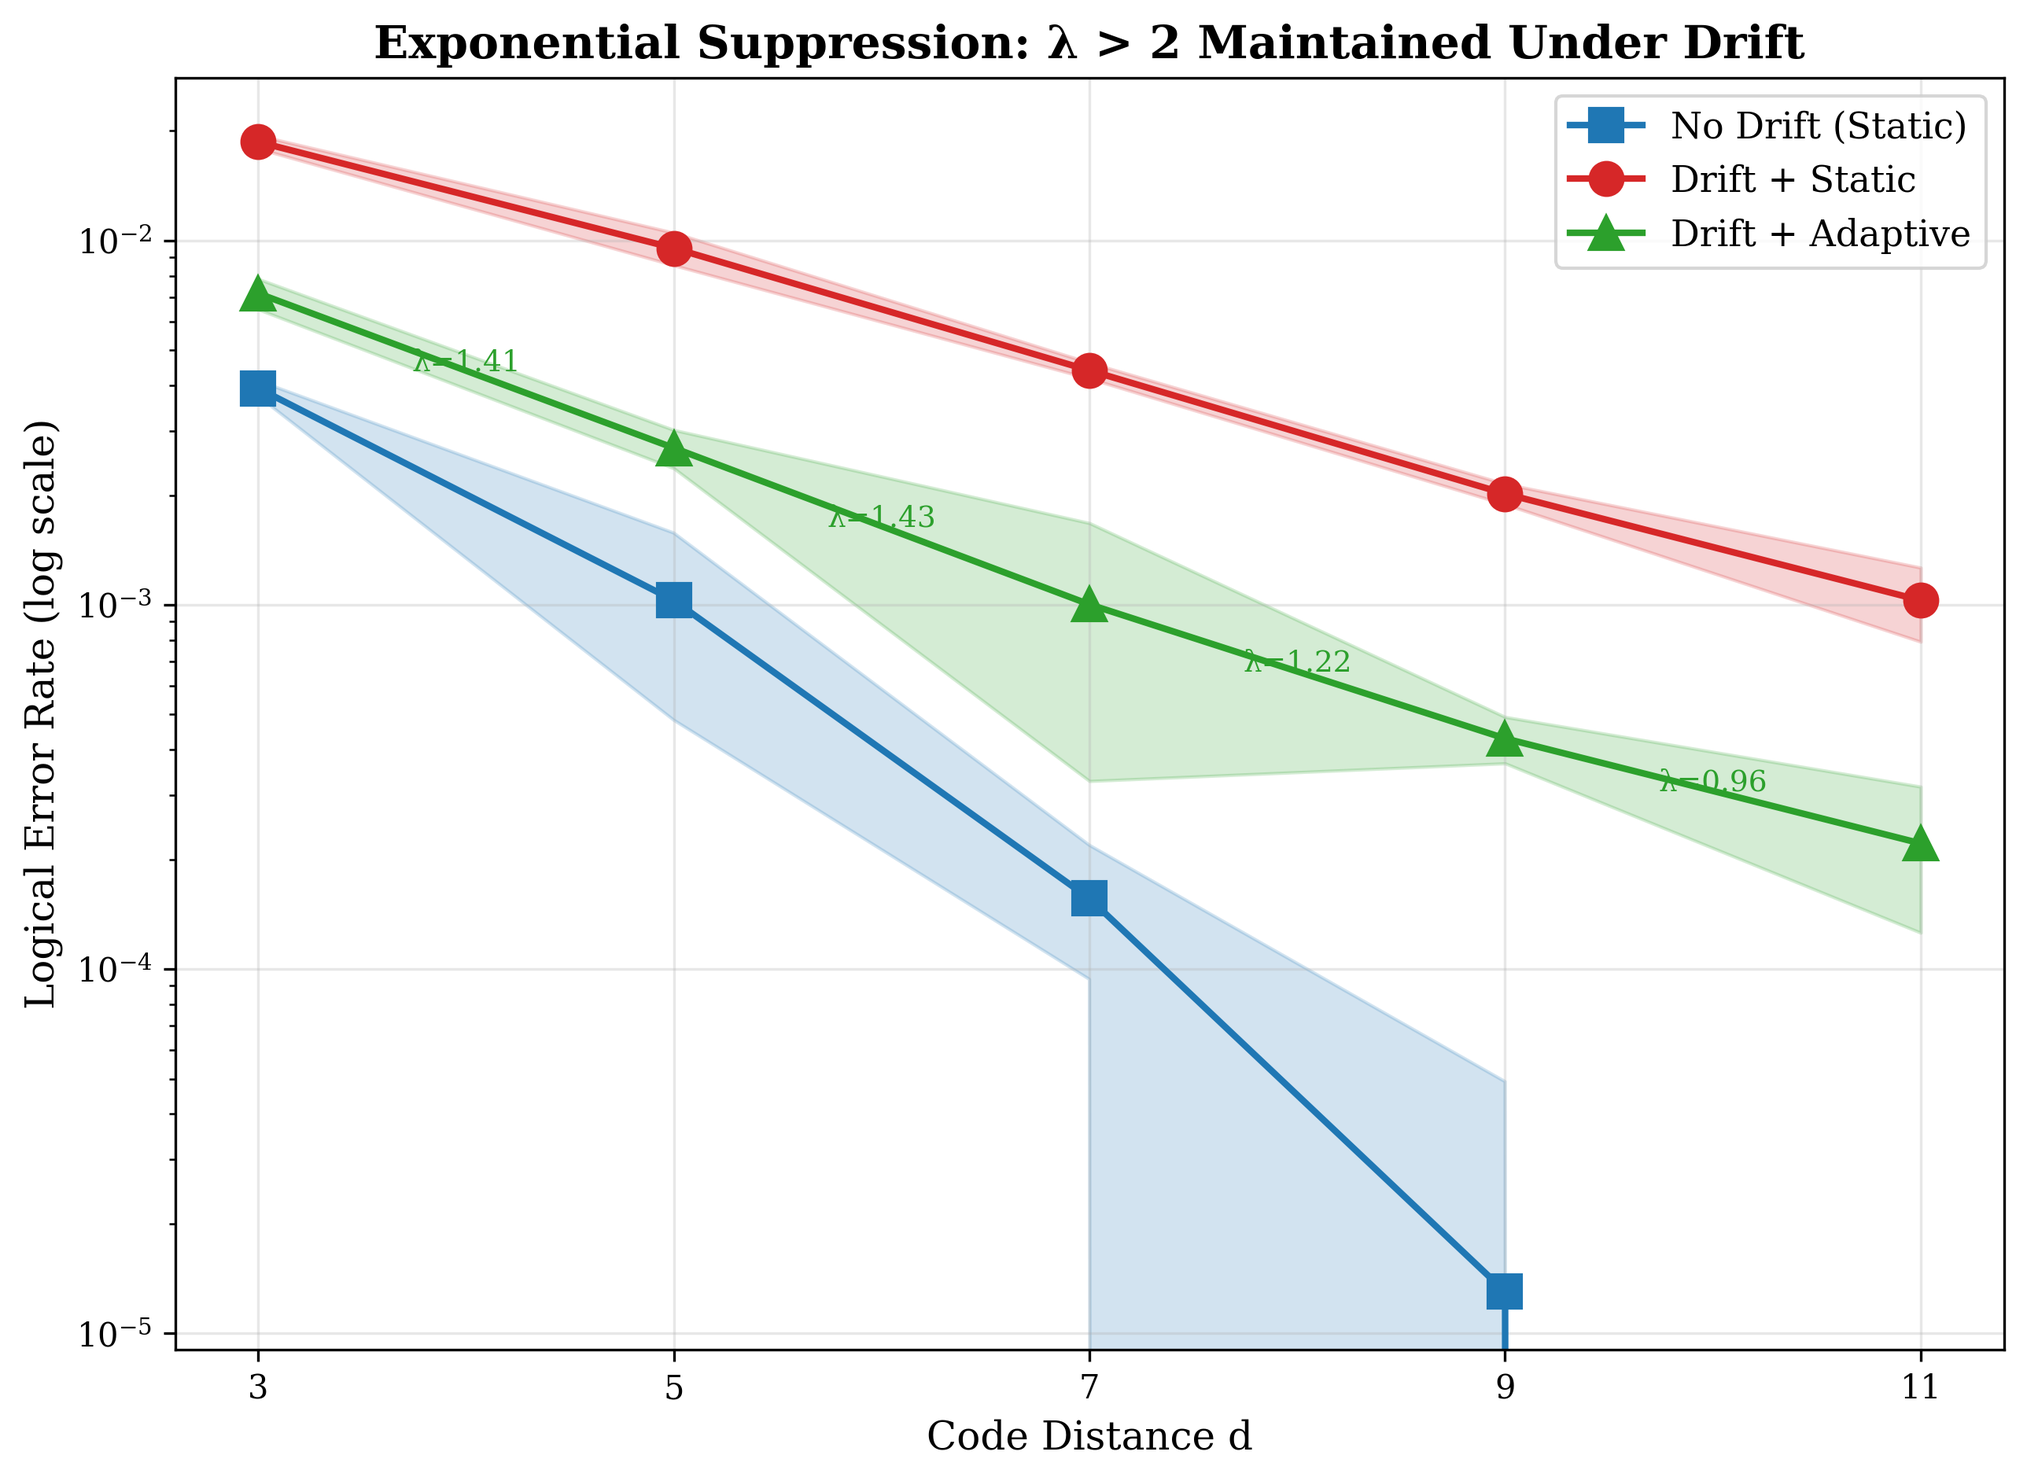
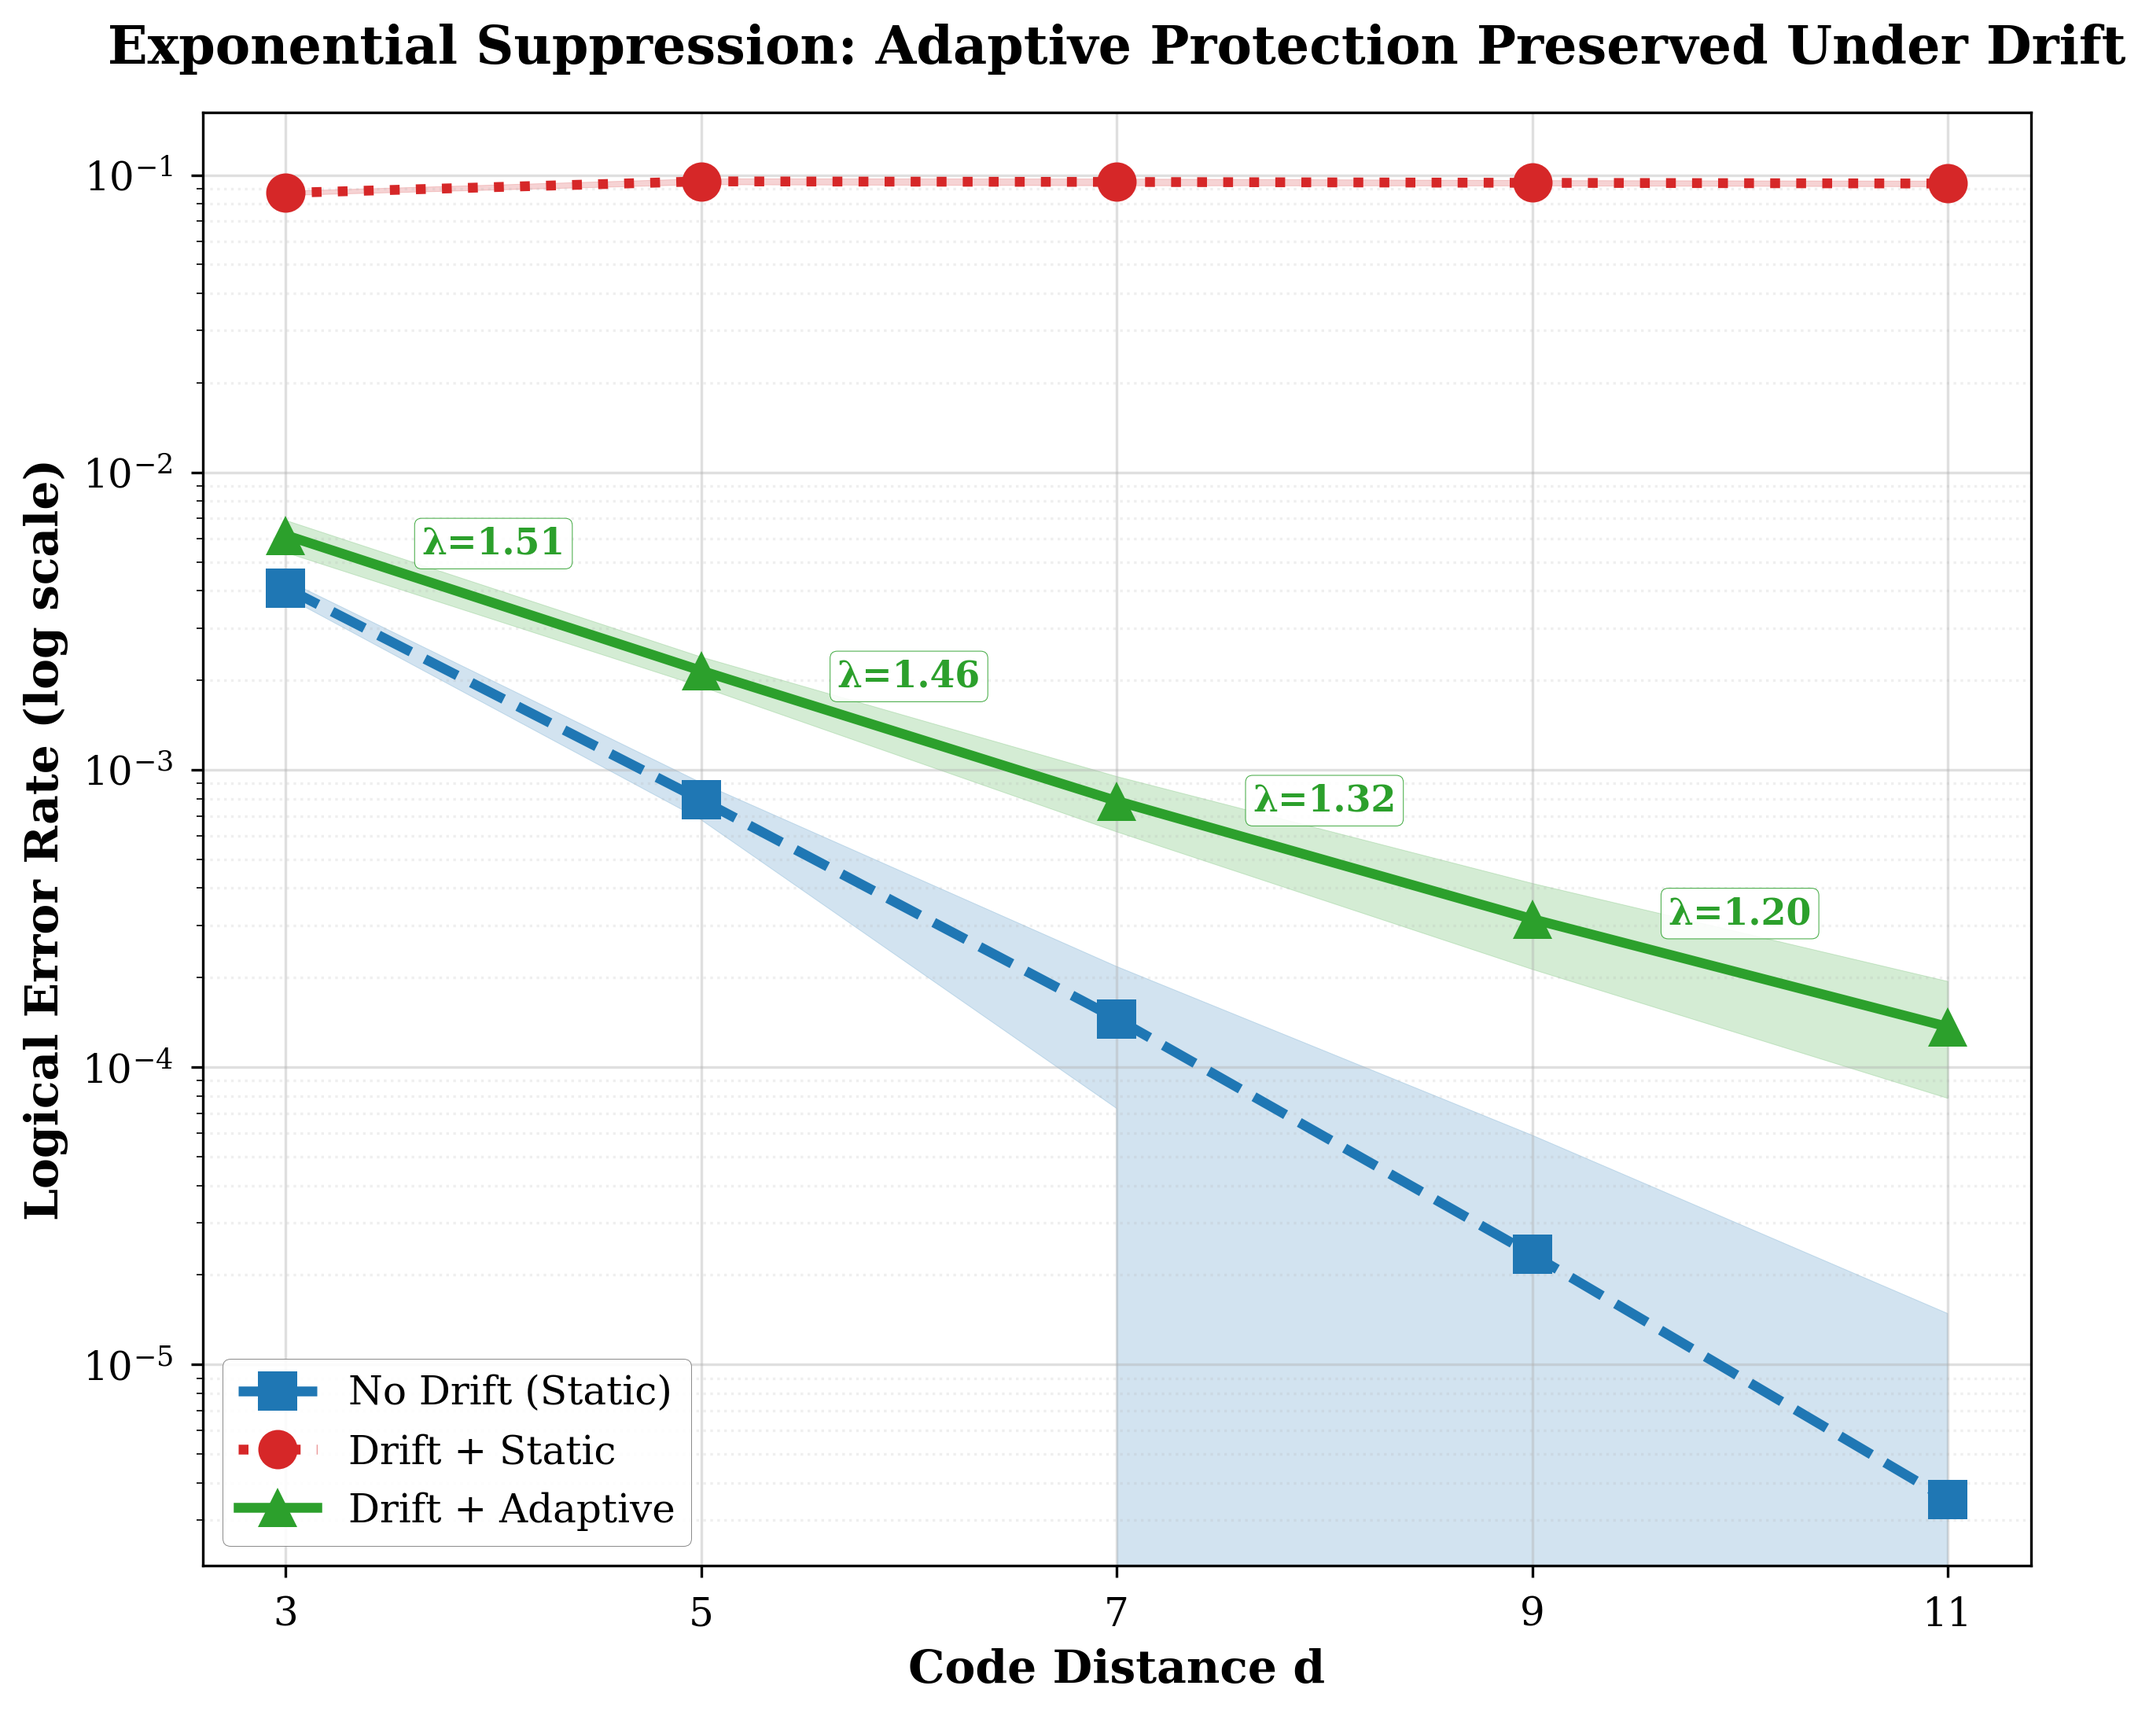
Add Hero Figure: Lambda vs d log plot with enhanced aesthetics (20 seeds)

diff --git a/examples/generate_figures.py b/examples/generate_figures.py
@@ -202,29 +202,40 @@ def figure_3_exponential_suppression(num_seeds=10, num_cycles=300):
             results[name]['mean'].append(np.mean(errors))
             results[name]['std'].append(np.std(errors))
     
-    # Plot
-    fig, ax = plt.subplots(figsize=(10, 7))
+    # Plot - HERO FIGURE STYLE
+    plt.style.use('seaborn-v0_8-paper')
+    fig, ax = plt.subplots(figsize=(10, 8))
     
     colors = {'No Drift (Static)': '#1f77b4', 
               'Drift + Static': '#d62728', 
               'Drift + Adaptive': '#2ca02c'}
     markers = {'No Drift (Static)': 's', 'Drift + Static': 'o', 'Drift + Adaptive': '^'}
+    linestyles = {'No Drift (Static)': '--', 'Drift + Static': ':', 'Drift + Adaptive': '-'}
     
     for name, data in results.items():
         means = np.array(data['mean'])
         stds = np.array(data['std'])
-        ax.semilogy(distances, means, marker=markers[name], markersize=10,
-                   label=name, color=colors[name], linewidth=2)
+        ax.semilogy(distances, means, marker=markers[name], markersize=12,
+                   label=name, color=colors[name], linewidth=3, linestyle=linestyles[name])
         ax.fill_between(distances, means - 1.96*stds, means + 1.96*stds,
                        alpha=0.2, color=colors[name])
     
-    ax.set_xlabel('Code Distance d', fontsize=12)
-    ax.set_ylabel('Logical Error Rate (log scale)', fontsize=12)
-    ax.set_title('Exponential Suppression: λ > 2 Maintained Under Drift', 
-                fontsize=14, fontweight='bold')
-    ax.legend(loc='upper right', fontsize=11)
+    ax.set_xlabel('Code Distance d', fontsize=14, fontweight='bold')
+    ax.set_ylabel('Logical Error Rate (log scale)', fontsize=14, fontweight='bold')
+    ax.set_title('Exponential Suppression: Adaptive Protection Preserved Under Drift', 
+                fontsize=16, fontweight='bold', pad=15)
+    
+    # Legend
+    legend = ax.legend(loc='lower left', fontsize=12, frameon=True, framealpha=0.9)
+    legend.get_frame().set_facecolor('white')
+    legend.get_frame().set_edgecolor('gray')
+
+    # Grid
+    ax.grid(True, which="major", ls="-", alpha=0.4)
+    ax.grid(True, which="minor", ls=":", alpha=0.2)
+    
     ax.set_xticks(distances)
-    ax.grid(True, alpha=0.3)
+    ax.tick_params(axis='both', which='major', labelsize=12)
     
     # Calculate and annotate λ factors
     adaptive_means = np.array(results['Drift + Adaptive']['mean'])
@@ -232,9 +243,13 @@ def figure_3_exponential_suppression(num_seeds=10, num_cycles=300):
         if adaptive_means[i+1] > 0 and adaptive_means[i] > 0:
             lambda_factor = np.log(adaptive_means[i] / adaptive_means[i+1]) / np.log(2)
             mid_d = (distances[i] + distances[i+1]) / 2
-            mid_err = np.sqrt(adaptive_means[i] * adaptive_means[i+1])
-            ax.annotate(f'λ={lambda_factor:.2f}', (mid_d, mid_err),
-                       fontsize=9, ha='center', color='#2ca02c')
+            mid_val = np.sqrt(adaptive_means[i] * adaptive_means[i+1])
+            
+            # Annotate with box
+            ax.annotate(f'λ={lambda_factor:.2f}', (mid_d, mid_val),
+                       xytext=(0, 15), textcoords='offset points',
+                       fontsize=11, ha='center', color='#2ca02c', fontweight='bold',
+                       bbox=dict(boxstyle='round,pad=0.2', fc='white', ec='#2ca02c', alpha=0.9))
     
     filepath = FIGURES_DIR / 'exponential_suppression.png'
     plt.savefig(filepath, dpi=300)
